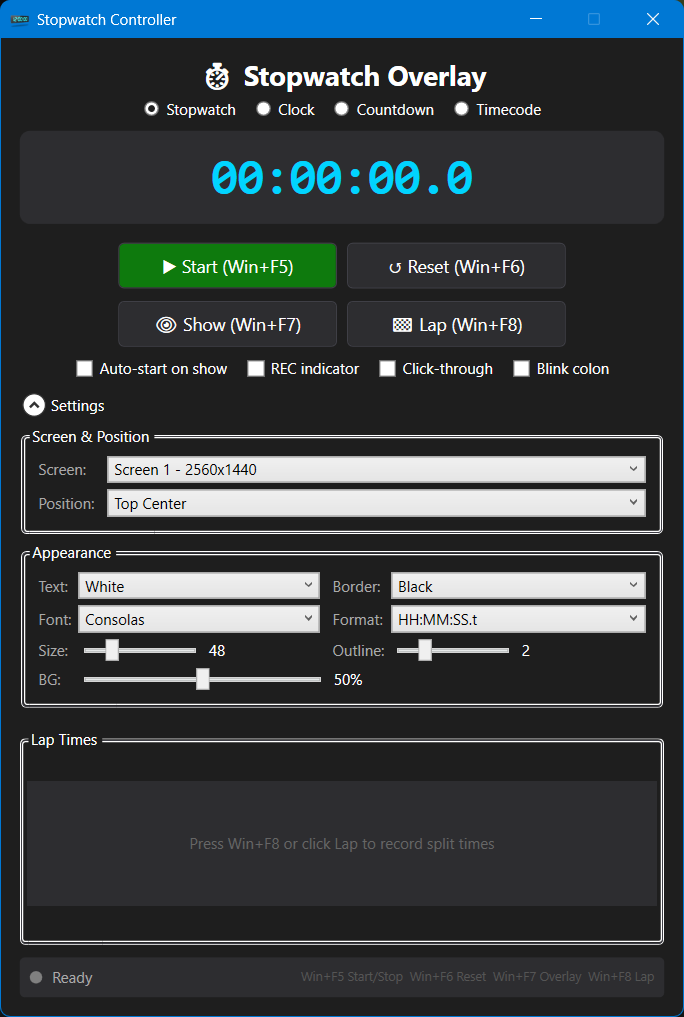
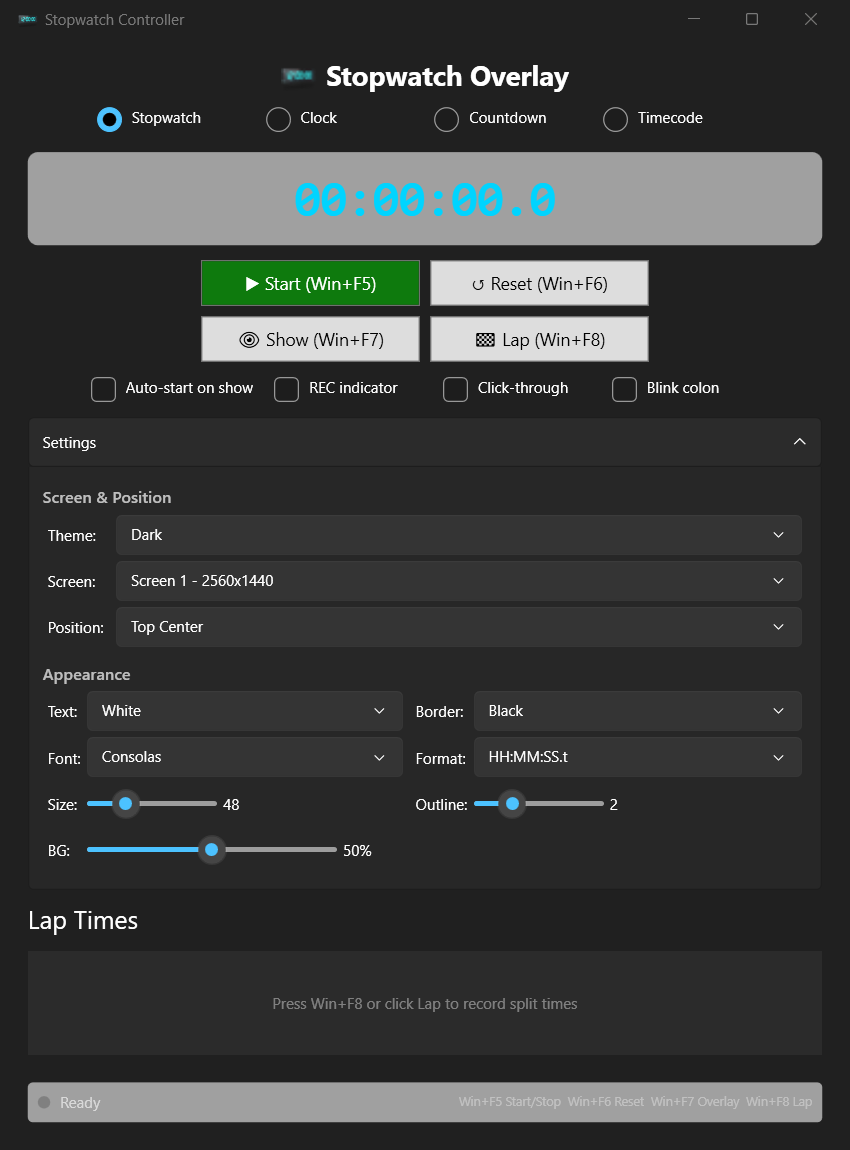
Upgrade to .NET 10 with WPF Fluent theme
- Upgrade TargetFramework from net8.0-windows to net10.0-windows
- Enable Fluent dark theme via ThemeMode API
- Add dark/light/system theme mode selector in Settings
- Remove hardcoded colors, let Fluent theme handle styling
- Replace custom button ControlTemplate with Fluent base styles
- Replace GroupBox section headers with lightweight TextBlocks
- Use app icon in title instead of emoji
- Widen window to 680px to avoid wrapping radio buttons/checkboxes
- Update controller-window.png screenshot

diff --git a/StopwatchOverlay/ControllerWindow.xaml b/StopwatchOverlay/ControllerWindow.xaml
@@ -2,10 +2,10 @@
         xmlns="http://schemas.microsoft.com/winfx/2006/xaml/presentation"
         xmlns:x="http://schemas.microsoft.com/winfx/2006/xaml"
         Title="Stopwatch Controller" 
-        Height="820" Width="560"
+        Height="920" Width="680"
         WindowStartupLocation="CenterScreen"
-        Background="#1E1E1E"
-        ResizeMode="CanMinimize"
+        ResizeMode="CanResize"
+        MinWidth="640" MinHeight="700"
         Closing="Window_Closing">
     
     <Grid Margin="15">
@@ -23,44 +23,44 @@
         </Grid.RowDefinitions>
 
         <!-- Title -->
-        <TextBlock Grid.Row="0" Text="⏱ Stopwatch Overlay" 
-                   FontSize="22" FontWeight="Bold" 
-                   Foreground="White" 
-                   HorizontalAlignment="Center" 
-                   Margin="0,0,0,5"/>
+        <StackPanel Grid.Row="0" Orientation="Horizontal" HorizontalAlignment="Center" Margin="0,0,0,5">
+            <Image Source="pack://application:,,,/stopwatch.ico" Width="28" Height="28" Margin="0,0,8,0" VerticalAlignment="Center"/>
+            <TextBlock Text="Stopwatch Overlay" 
+                       FontSize="22" FontWeight="Bold" 
+                       VerticalAlignment="Center"/>
+        </StackPanel>
 
         <!-- Mode Selection -->
         <StackPanel Grid.Row="1" Orientation="Horizontal" HorizontalAlignment="Center" Margin="0,0,0,10">
             <RadioButton x:Name="StopwatchModeRadio" Content="Stopwatch" 
-                         Foreground="White" IsChecked="True" GroupName="Mode"
+                         IsChecked="True" GroupName="Mode"
                          Checked="ModeRadio_Checked" Margin="0,0,15,0"/>
             <RadioButton x:Name="ClockModeRadio" Content="Clock" 
-                         Foreground="White" GroupName="Mode"
+                         GroupName="Mode"
                          Checked="ModeRadio_Checked" Margin="0,0,15,0"/>
             <RadioButton x:Name="CountdownModeRadio" Content="Countdown" 
-                         Foreground="White" GroupName="Mode"
+                         GroupName="Mode"
                          Checked="ModeRadio_Checked" Margin="0,0,15,0"/>
             <RadioButton x:Name="TimecodeModeRadio" Content="Timecode" 
-                         Foreground="White" GroupName="Mode"
+                         GroupName="Mode"
                          Checked="ModeRadio_Checked"/>
         </StackPanel>
 
         <!-- Countdown Duration (only visible in countdown mode) -->
         <StackPanel x:Name="CountdownPanel" Grid.Row="2" Orientation="Horizontal" 
                     HorizontalAlignment="Center" Margin="0,0,0,10" Visibility="Collapsed">
-            <TextBlock Text="Duration: " Foreground="#AAAAAA" VerticalAlignment="Center"/>
+            <TextBlock Text="Duration: " Foreground="{DynamicResource {x:Static SystemColors.GrayTextBrushKey}}" VerticalAlignment="Center"/>
             <TextBox x:Name="CountdownMinutes" Width="40" Text="5" 
-                     Background="#2D2D30" Foreground="White" BorderBrush="#3F3F46"
                      TextAlignment="Center" VerticalContentAlignment="Center"/>
-            <TextBlock Text=" min " Foreground="#AAAAAA" VerticalAlignment="Center"/>
+            <TextBlock Text=" min " Foreground="{DynamicResource {x:Static SystemColors.GrayTextBrushKey}}" VerticalAlignment="Center"/>
             <TextBox x:Name="CountdownSeconds" Width="40" Text="00" 
-                     Background="#2D2D30" Foreground="White" BorderBrush="#3F3F46"
                      TextAlignment="Center" VerticalContentAlignment="Center"/>
-            <TextBlock Text=" sec" Foreground="#AAAAAA" VerticalAlignment="Center"/>
+            <TextBlock Text=" sec" Foreground="{DynamicResource {x:Static SystemColors.GrayTextBrushKey}}" VerticalAlignment="Center"/>
         </StackPanel>
 
         <!-- Current Time Display -->
-        <Border Grid.Row="3" Background="#2D2D30" CornerRadius="8" Padding="15" Margin="0,0,0,15">
+        <Border Grid.Row="3" Background="{DynamicResource {x:Static SystemColors.ControlDarkBrushKey}}" 
+                CornerRadius="8" Padding="15" Margin="0,0,0,12">
             <Grid>
                 <Grid.ColumnDefinitions>
                     <ColumnDefinition Width="Auto"/>
@@ -79,7 +79,7 @@
         </Border>
 
         <!-- Control Buttons -->
-        <StackPanel Grid.Row="4" Orientation="Horizontal" HorizontalAlignment="Center" Margin="0,0,0,10">
+        <StackPanel Grid.Row="4" Orientation="Horizontal" HorizontalAlignment="Center" Margin="0,0,0,8">
             <Button x:Name="StartStopButton" Content="▶ Start (Win+F5)" Width="175" 
                     Style="{StaticResource StartButton}" 
                     Click="StartStopButton_Click" Margin="0,0,8,0"/>
@@ -89,7 +89,7 @@
         </StackPanel>
 
         <!-- Overlay and Lap Buttons -->
-        <StackPanel Grid.Row="5" Orientation="Horizontal" HorizontalAlignment="Center" Margin="0,0,0,10">
+        <StackPanel Grid.Row="5" Orientation="Horizontal" HorizontalAlignment="Center" Margin="0,0,0,6">
             <Button x:Name="ToggleOverlayButton" Content="👁 Show (Win+F7)" Width="175" 
                     Style="{StaticResource ModernButton}" 
                     Click="ToggleOverlayButton_Click" Margin="0,0,8,0"/>
@@ -99,25 +99,25 @@
         </StackPanel>
 
         <!-- Options Row -->
-        <WrapPanel Grid.Row="6" HorizontalAlignment="Center" Margin="0,0,0,10">
+        <WrapPanel Grid.Row="6" HorizontalAlignment="Center" Margin="0,0,0,6">
             <CheckBox x:Name="AutoStartCheckBox" Content="Auto-start on show" 
-                      Foreground="White" Margin="0,0,15,0"/>
+                      Margin="0,0,15,0"/>
             <CheckBox x:Name="ShowRecIndicatorCheckBox" Content="REC indicator" 
-                      Foreground="White" Checked="ShowRecIndicatorCheckBox_Changed" 
+                      Checked="ShowRecIndicatorCheckBox_Changed" 
                       Unchecked="ShowRecIndicatorCheckBox_Changed" Margin="0,0,15,0"/>
             <CheckBox x:Name="ClickThroughCheckBox" Content="Click-through" 
-                      Foreground="White" Checked="ClickThroughCheckBox_Changed" 
+                      Checked="ClickThroughCheckBox_Changed" 
                       Unchecked="ClickThroughCheckBox_Changed" Margin="0,0,15,0"/>
             <CheckBox x:Name="BlinkColonCheckBox" Content="Blink colon" 
-                      Foreground="White" Margin="0,0,0,0"/>
+                      Margin="0,0,0,0"/>
         </WrapPanel>
 
         <!-- Settings Expander -->
-        <Expander Grid.Row="7" Header="Settings" Foreground="White" IsExpanded="True" Margin="0,0,0,10">
+        <Expander Grid.Row="7" Header="Settings" IsExpanded="True" Margin="0,0,0,6">
             <StackPanel>
                 <!-- Screen and Position -->
-                <GroupBox Header="Screen &amp; Position" Foreground="White" BorderBrush="#3F3F46" Margin="0,5,0,5">
-                    <Grid Margin="8">
+                <TextBlock Text="Screen &amp; Position" FontSize="13" FontWeight="SemiBold" Opacity="0.7" Margin="0,4,0,6"/>
+                <Grid Margin="4,0,4,8">
                         <Grid.ColumnDefinitions>
                             <ColumnDefinition Width="Auto"/>
                             <ColumnDefinition Width="*"/>
@@ -125,19 +125,29 @@
                         <Grid.RowDefinitions>
                             <RowDefinition Height="Auto"/>
                             <RowDefinition Height="Auto"/>
+                            <RowDefinition Height="Auto"/>
                         </Grid.RowDefinitions>
 
-                        <TextBlock Grid.Row="0" Grid.Column="0" Text="Screen:" 
-                                   Foreground="#AAAAAA" VerticalAlignment="Center" Margin="0,0,10,5"/>
-                        <ComboBox Grid.Row="0" Grid.Column="1" x:Name="ScreenSelector" 
-                                  SelectionChanged="ScreenSelector_SelectionChanged"
-                                  Background="#2D2D30" Foreground="Black" Margin="0,0,0,5"/>
+                        <TextBlock Grid.Row="0" Grid.Column="0" Text="Theme:" 
+                                   VerticalAlignment="Center" Margin="0,0,10,5"/>
+                        <ComboBox Grid.Row="0" Grid.Column="1" x:Name="ThemeModeSelector" 
+                                  SelectionChanged="ThemeModeSelector_SelectionChanged"
+                                  Margin="0,0,0,5">
+                            <ComboBoxItem Content="Dark" IsSelected="True"/>
+                            <ComboBoxItem Content="Light"/>
+                            <ComboBoxItem Content="System"/>
+                        </ComboBox>
 
-                        <TextBlock Grid.Row="1" Grid.Column="0" Text="Position:" 
-                                   Foreground="#AAAAAA" VerticalAlignment="Center" Margin="0,0,10,0"/>
-                        <ComboBox Grid.Row="1" Grid.Column="1" x:Name="PositionSelector" 
-                                  SelectionChanged="PositionSelector_SelectionChanged"
-                                  Background="#2D2D30" Foreground="Black">
+                        <TextBlock Grid.Row="1" Grid.Column="0" Text="Screen:" 
+                                   VerticalAlignment="Center" Margin="0,0,10,5"/>
+                        <ComboBox Grid.Row="1" Grid.Column="1" x:Name="ScreenSelector" 
+                                  SelectionChanged="ScreenSelector_SelectionChanged"
+                                  Margin="0,0,0,5"/>
+
+                        <TextBlock Grid.Row="2" Grid.Column="0" Text="Position:" 
+                                   VerticalAlignment="Center" Margin="0,0,10,0"/>
+                        <ComboBox Grid.Row="2" Grid.Column="1" x:Name="PositionSelector" 
+                                  SelectionChanged="PositionSelector_SelectionChanged">
                             <ComboBoxItem Content="Top Left"/>
                             <ComboBoxItem Content="Top Center" IsSelected="True"/>
                             <ComboBoxItem Content="Top Right"/>
@@ -145,12 +155,11 @@
                             <ComboBoxItem Content="Bottom Center"/>
                             <ComboBoxItem Content="Bottom Right"/>
                         </ComboBox>
-                    </Grid>
-                </GroupBox>
+                </Grid>
 
                 <!-- Appearance -->
-                <GroupBox Header="Appearance" Foreground="White" BorderBrush="#3F3F46" Margin="0,0,0,5">
-                    <Grid Margin="8">
+                <TextBlock Text="Appearance" FontSize="13" FontWeight="SemiBold" Opacity="0.7" Margin="0,4,0,6"/>
+                <Grid Margin="4,0,4,4">
                         <Grid.ColumnDefinitions>
                             <ColumnDefinition Width="Auto"/>
                             <ColumnDefinition Width="*"/>
@@ -165,7 +174,7 @@
                         </Grid.RowDefinitions>
 
                         <TextBlock Grid.Row="0" Grid.Column="0" Text="Text:" 
-                                   Foreground="#AAAAAA" VerticalAlignment="Center" Margin="0,0,5,5"/>
+                                   VerticalAlignment="Center" Margin="0,0,5,5"/>
                         <ComboBox Grid.Row="0" Grid.Column="1" x:Name="TextColorSelector" 
                                   SelectionChanged="AppearanceChanged" Margin="0,0,10,5">
                             <ComboBoxItem Content="White" IsSelected="True"/>
@@ -178,7 +187,7 @@
                         </ComboBox>
 
                         <TextBlock Grid.Row="0" Grid.Column="2" Text="Border:" 
-                                   Foreground="#AAAAAA" VerticalAlignment="Center" Margin="0,0,5,5"/>
+                                   VerticalAlignment="Center" Margin="0,0,5,5"/>
                         <ComboBox Grid.Row="0" Grid.Column="3" x:Name="BorderColorSelector" 
                                   SelectionChanged="AppearanceChanged" Margin="0,0,0,5">
                             <ComboBoxItem Content="Black" IsSelected="True"/>
@@ -189,7 +198,7 @@
                         </ComboBox>
 
                         <TextBlock Grid.Row="1" Grid.Column="0" Text="Font:" 
-                                   Foreground="#AAAAAA" VerticalAlignment="Center" Margin="0,0,5,5"/>
+                                   VerticalAlignment="Center" Margin="0,0,5,5"/>
                         <ComboBox Grid.Row="1" Grid.Column="1" x:Name="FontSelector" 
                                   SelectionChanged="AppearanceChanged" Margin="0,0,10,5">
                             <ComboBoxItem Content="Consolas" IsSelected="True"/>
@@ -201,7 +210,7 @@
                         </ComboBox>
 
                         <TextBlock Grid.Row="1" Grid.Column="2" Text="Format:" 
-                                   Foreground="#AAAAAA" VerticalAlignment="Center" Margin="0,0,5,5"/>
+                                   VerticalAlignment="Center" Margin="0,0,5,5"/>
                         <ComboBox Grid.Row="1" Grid.Column="3" x:Name="TimeFormatSelector" 
                                   SelectionChanged="TimeFormatSelector_SelectionChanged" Margin="0,0,0,5">
                             <ComboBoxItem Content="HH:MM:SS.t" IsSelected="True"/>
@@ -211,40 +220,39 @@
                         </ComboBox>
 
                         <TextBlock Grid.Row="2" Grid.Column="0" Text="Size:" 
-                                   Foreground="#AAAAAA" VerticalAlignment="Center" Margin="0,0,5,5"/>
+                                   VerticalAlignment="Center" Margin="0,0,5,5"/>
                         <StackPanel Grid.Row="2" Grid.Column="1" Orientation="Horizontal" Margin="0,0,10,5">
                             <Slider x:Name="TextSizeSlider" Width="100" Minimum="24" Maximum="120" Value="48"
                                     VerticalAlignment="Center" ValueChanged="AppearanceSliderChanged"/>
-                            <TextBlock x:Name="TextSizeLabel" Text="48" Foreground="White" 
+                            <TextBlock x:Name="TextSizeLabel" Text="48" 
                                        VerticalAlignment="Center" Margin="5,0,0,0" Width="25"/>
                         </StackPanel>
 
                         <TextBlock Grid.Row="2" Grid.Column="2" Text="Outline:" 
-                                   Foreground="#AAAAAA" VerticalAlignment="Center" Margin="0,0,5,5"/>
+                                   VerticalAlignment="Center" Margin="0,0,5,5"/>
                         <StackPanel Grid.Row="2" Grid.Column="3" Orientation="Horizontal" Margin="0,0,0,5">
                             <Slider x:Name="BorderWidthSlider" Width="100" Minimum="1" Maximum="5" Value="2"
                                     VerticalAlignment="Center" ValueChanged="AppearanceSliderChanged"/>
-                            <TextBlock x:Name="BorderWidthLabel" Text="2" Foreground="White" 
+                            <TextBlock x:Name="BorderWidthLabel" Text="2" 
                                        VerticalAlignment="Center" Margin="5,0,0,0" Width="25"/>
                         </StackPanel>
 
                         <TextBlock Grid.Row="3" Grid.Column="0" Text="BG:" 
-                                   Foreground="#AAAAAA" VerticalAlignment="Center" Margin="0,0,5,0"/>
+                                   VerticalAlignment="Center" Margin="0,0,5,0"/>
                         <StackPanel Grid.Row="3" Grid.Column="1" Grid.ColumnSpan="3" Orientation="Horizontal">
                             <Slider x:Name="BackgroundOpacitySlider" Width="200" Minimum="0" Maximum="100" Value="50"
                                     VerticalAlignment="Center" ValueChanged="AppearanceSliderChanged"/>
-                            <TextBlock x:Name="BackgroundOpacityLabel" Text="50%" Foreground="White" 
+                            <TextBlock x:Name="BackgroundOpacityLabel" Text="50%" 
                                        VerticalAlignment="Center" Margin="5,0,0,0" Width="35"/>
                         </StackPanel>
-                    </Grid>
-                </GroupBox>
+                </Grid>
             </StackPanel>
         </Expander>
 
         <!-- Lap Times -->
-        <GroupBox Grid.Row="8" Header="Lap Times" Foreground="White" BorderBrush="#3F3F46">
+        <GroupBox Grid.Row="8" Header="Lap Times">
             <Grid>
-                <ListBox x:Name="LapListBox" Background="#2D2D30" Foreground="White" 
+                <ListBox x:Name="LapListBox" 
                          BorderThickness="0" MaxHeight="100"
                          ScrollViewer.VerticalScrollBarVisibility="Auto">
                     <ListBox.ItemTemplate>
@@ -254,12 +262,13 @@
                     </ListBox.ItemTemplate>
                 </ListBox>
                 <TextBlock x:Name="LapPlaceholder" Text="Press Win+F8 or click Lap to record split times" 
-                           Foreground="#666666" HorizontalAlignment="Center" VerticalAlignment="Center"/>
+                           Opacity="0.4" HorizontalAlignment="Center" VerticalAlignment="Center"/>
             </Grid>
         </GroupBox>
 
         <!-- Status Bar -->
-        <Border Grid.Row="9" Background="#2D2D30" CornerRadius="4" Padding="8" Margin="0,10,0,0">
+        <Border Grid.Row="9" CornerRadius="4" Padding="8" Margin="0,6,0,0"
+                Background="{DynamicResource {x:Static SystemColors.ControlDarkBrushKey}}">
             <Grid>
                 <Grid.ColumnDefinitions>
                     <ColumnDefinition Width="*"/>
@@ -267,10 +276,10 @@
                 </Grid.ColumnDefinitions>
                 <StackPanel Grid.Column="0" Orientation="Horizontal">
                     <Ellipse x:Name="StatusIndicator" Width="10" Height="10" Fill="Gray" Margin="0,0,8,0"/>
-                    <TextBlock x:Name="StatusText" Text="Ready" Foreground="#AAAAAA" FontSize="12"/>
+                    <TextBlock x:Name="StatusText" Text="Ready" Opacity="0.6" FontSize="12"/>
                 </StackPanel>
                 <TextBlock Grid.Column="1" Text="Win+F5 Start/Stop  Win+F6 Reset  Win+F7 Overlay  Win+F8 Lap" 
-                           Foreground="#555555" FontSize="10"/>
+                           Opacity="0.35" FontSize="10"/>
             </Grid>
         </Border>
     </Grid>

diff --git a/StopwatchOverlay/App.xaml b/StopwatchOverlay/App.xaml
@@ -4,52 +4,19 @@
              StartupUri="ControllerWindow.xaml">
     <Application.Resources>
         <Style TargetType="Button" x:Key="ModernButton">
-            <Setter Property="Background" Value="#2D2D30"/>
-            <Setter Property="Foreground" Value="White"/>
-            <Setter Property="BorderBrush" Value="#3F3F46"/>
-            <Setter Property="BorderThickness" Value="1"/>
             <Setter Property="Padding" Value="15,8"/>
             <Setter Property="FontSize" Value="14"/>
             <Setter Property="Cursor" Value="Hand"/>
-            <Setter Property="Template">
-                <Setter.Value>
-                    <ControlTemplate TargetType="Button">
-                        <Border Background="{TemplateBinding Background}" 
-                                BorderBrush="{TemplateBinding BorderBrush}"
-                                BorderThickness="{TemplateBinding BorderThickness}"
-                                CornerRadius="4"
-                                Padding="{TemplateBinding Padding}">
-                            <ContentPresenter HorizontalAlignment="Center" VerticalAlignment="Center"/>
-                        </Border>
-                        <ControlTemplate.Triggers>
-                            <Trigger Property="IsMouseOver" Value="True">
-                                <Setter Property="Background" Value="#3E3E42"/>
-                            </Trigger>
-                            <Trigger Property="IsPressed" Value="True">
-                                <Setter Property="Background" Value="#007ACC"/>
-                            </Trigger>
-                        </ControlTemplate.Triggers>
-                    </ControlTemplate>
-                </Setter.Value>
-            </Setter>
         </Style>
         
         <Style TargetType="Button" x:Key="StartButton" BasedOn="{StaticResource ModernButton}">
             <Setter Property="Background" Value="#0E7A0D"/>
-            <Style.Triggers>
-                <Trigger Property="IsMouseOver" Value="True">
-                    <Setter Property="Background" Value="#1A9E19"/>
-                </Trigger>
-            </Style.Triggers>
+            <Setter Property="Foreground" Value="White"/>
         </Style>
         
         <Style TargetType="Button" x:Key="StopButton" BasedOn="{StaticResource ModernButton}">
             <Setter Property="Background" Value="#C42B1C"/>
-            <Style.Triggers>
-                <Trigger Property="IsMouseOver" Value="True">
-                    <Setter Property="Background" Value="#E83E2E"/>
-                </Trigger>
-            </Style.Triggers>
+            <Setter Property="Foreground" Value="White"/>
         </Style>
     </Application.Resources>
 </Application>

diff --git a/StopwatchOverlay/ControllerWindow.xaml.cs b/StopwatchOverlay/ControllerWindow.xaml.cs
@@ -56,6 +56,11 @@ namespace StopwatchOverlay
 
         public ControllerWindow()
         {
+            // Set dark theme before InitializeComponent so UI renders correctly from the start
+            #pragma warning disable WPF0001
+            System.Windows.Application.Current.ThemeMode = ThemeMode.Dark;
+            #pragma warning restore WPF0001
+
             InitializeComponent();
 
             _timer = new DispatcherTimer { Interval = TimeSpan.FromMilliseconds(50) };
@@ -70,6 +75,20 @@ namespace StopwatchOverlay
             UpdateButtonStates();
             _timer.Start();
             _blinkTimer.Start();
+        }
+
+        private void ThemeModeSelector_SelectionChanged(object sender, SelectionChangedEventArgs e)
+        {
+            if (ThemeModeSelector?.SelectedItem is not ComboBoxItem selected) return;
+            var mode = selected.Content?.ToString() switch
+            {
+                "Light" => ThemeMode.Light,
+                "System" => ThemeMode.System,
+                _ => ThemeMode.Dark
+            };
+            #pragma warning disable WPF0001
+            System.Windows.Application.Current.ThemeMode = mode;
+            #pragma warning restore WPF0001
         }
 
         protected override void OnSourceInitialized(EventArgs e)
